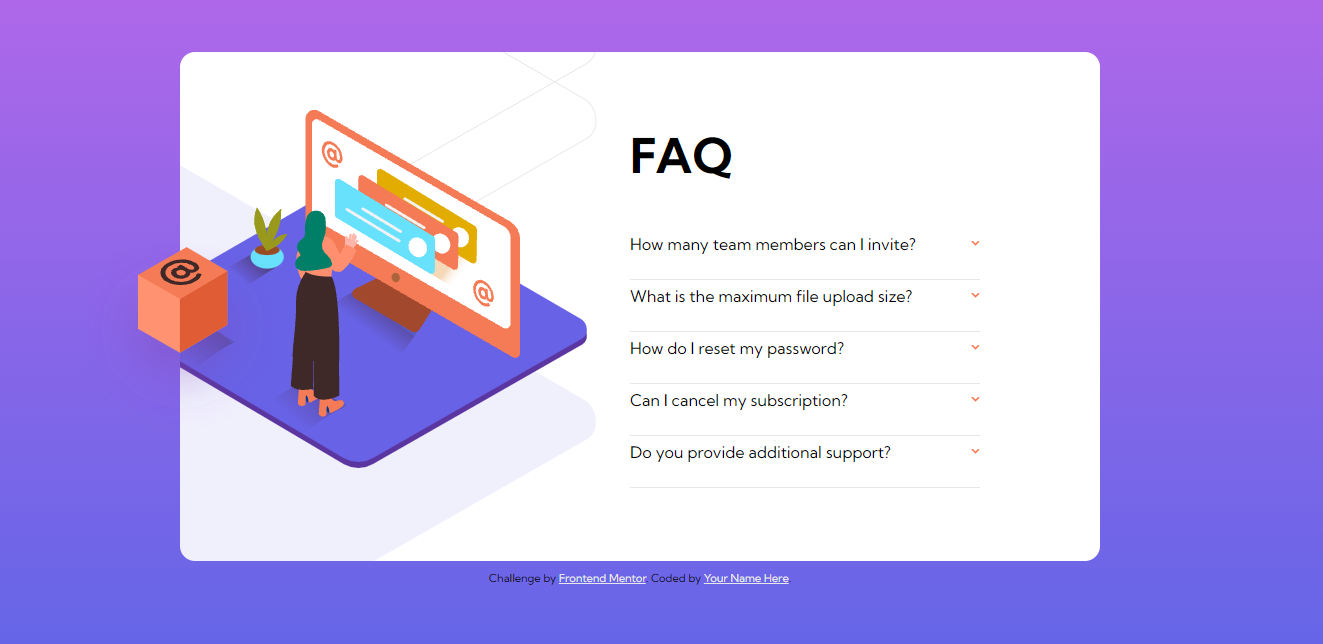
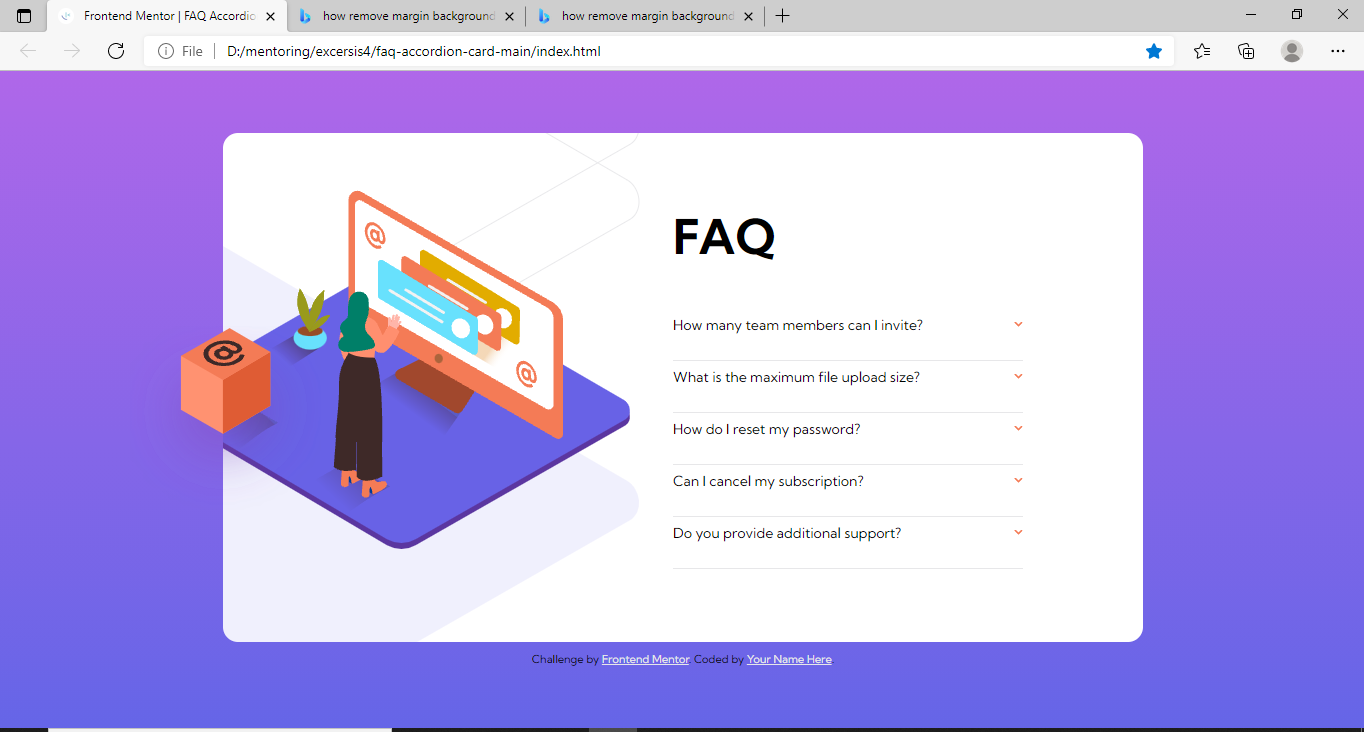
update

diff --git a/style.css b/style.css
@@ -1,16 +1,18 @@
 @import url('https://fonts.googleapis.com/css2?family=Kumbh+Sans:wght@400;700&display=swap');
-*{
+html , *{
     margin:0;
     padding: 0;
     box-sizing: border-box;
 }
+html,body{
+    width: 100%;
+    height:100vh;
+}
+
 body{
     font-family: 'Kumbh Sans', sans-se;
-    width: 100%;
-    height: 100vh;
-    background-image: linear-gradient(to bottom,hsl(273, 75%, 66%),hsl(240, 73%, 65%) );
-    background-repeat: no-repeat;
-    background-size: cover;
+    
+    background: linear-gradient(to bottom,hsl(273, 75%, 66%),hsl(240, 73%, 65%) );
     display: flex;
     justify-content: center;
      align-items: center;
@@ -74,8 +76,8 @@ article.active p{
     opacity: 1;
 }
 article.active{
-    min-height: 100px;
-    transition: all 0.1s ease-in-out;
+    min-height: 6.25rem;
+    transition: min-height 0.6s ease-in-out;
 }
 article.active .questions{
     font-weight: bold;
@@ -85,7 +87,8 @@ article.active .questions{
     justify-content:space-between;
     align-items: center;
     height:2rem;
-    transition: all 0.7s ease-in-out;
+    transition: height 0.7s ease-in-out;
+    font-size: 14px;
 
 } 
 .questions:hover{
@@ -121,6 +124,7 @@ article.active .questions::after{
 
 /* mobile */
 @media (max-width:768px){
+  
     .container{
         width:20.4375rem;
         /* height:40.1875rem ; */
@@ -140,6 +144,9 @@ article.active .questions::after{
         padding: 0;
         
     }
+    .questions{
+        font-size: 13px;
+    }
     .content{
         margin-top: 3.9375rem;
     }
@@ -150,6 +157,11 @@ article.active .questions::after{
     .shapeBox{
       display: none;
 
-        
+    }
+    .title{
+        margin-top: 31px;
+    }
+    .attribution{
+        display: none;
     }
 }

diff --git a/index.html b/index.html
@@ -17,7 +17,7 @@
 <body>
   <main>
     <div class="container">
-      <div class="shapeBox"></div>
+       <div class="shapeBox"></div> 
       <section class="containerItem">
         <div class="content">
           <header class="title">  

diff --git a/README.md b/README.md
@@ -5,5 +5,5 @@ This is a solution to the [FAQ accordion card challenge on Frontend Mentor]( htt
 
 ### Screenshot
 
-![](./capture.jpg)
+(./capture.jpg)
 
